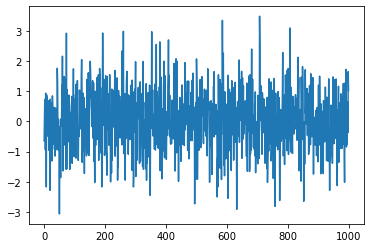
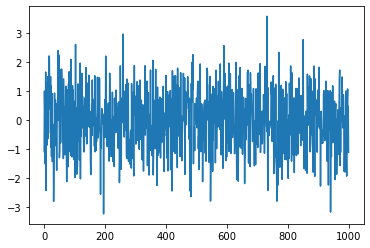
modified stationarity port

diff --git a/_posts/2022-11-10-stationarity.md b/_posts/2022-11-10-stationarity.md
@@ -4,7 +4,7 @@ title: "Stationarity in Python"
 subtitle: "tests and the reason behind"
 author:  Gabriela Filipkowska
 date: 2022-11-10 -0400
-edit: 2022-11-21
+edit: 2022-11-23
 background: '/img/bg-post.jpg'
 ---
 
@@ -20,17 +20,18 @@ when doing some data analysis.
 
 ## Tests for unit root and stationarity in Python
 
-There are a many unit-root and stationarity tests available. However, here, I will focus on the most popular ones, i.e. Augmented Dickey-Fuller ('ADF') 
-and Phillips-Perron ('PP'), and for checking the stationarity, Kwiatkowski-Phillips-Schmidt-Shin ('KPSS'). ADF and PP tests test a null hypothesis that the 
+There are a many unit-root and stationarity tests available. However, here, I will focus on the most popular one unit root test, i.e. Augmented Dickey-Fuller ('ADF'). 
+However, you may wish to also try Phillips-Perron ('PP'), and for checking the stationarity, Kwiatkowski-Phillips-Schmidt-Shin ('KPSS'). ADF and PP tests test a null hypothesis that the 
 process contains the unit root against the alternative that the process in weakly stationary. Whereas the KPSS test tests the null hypothesis of the process being 
-weakly stationary against the alternative that the process contains a unit root.
+weakly stationary against the alternative that the process contains a unit root. 
 
-To begin with, lets create time series:
+To begin with, let us create a time series:
 
 ```python
 > import numpy as np
 > import matplotlib.pyplot as plt
 
+> np.random.seed(seed=123)
 > mean, standard_dev = 0, 1
 > errors = np.random.normal(mean, standard_dev, 1000)
 > y_1 = []
@@ -44,25 +45,6 @@ To begin with, lets create time series:
     
 
 To test this series we run the following code:
-
-```python
-> from arch.unitroot import PhillipsPerron
-> print(PhillipsPerron(y_1, trend='c'))
-```
-
-         Phillips-Perron Test (Z-tau)    
-    =====================================
-    Test Statistic                -31.959
-    P-value                         0.000
-    Lags                               22
-    -------------------------------------
-    
-    Trend: Constant
-    Critical Values: -3.44 (1%), -2.86 (5%), -2.57 (10%)
-    Null Hypothesis: The process contains a unit root.
-    Alternative Hypothesis: The process is weakly stationary.
-    
-
 
 ```python
 > from arch.unitroot import ADF
@@ -82,27 +64,7 @@ To test this series we run the following code:
     Alternative Hypothesis: The process is weakly stationary.
     
 
-
-```python
-> from arch.unitroot import KPSS
-> print(KPSS(y_1, trend='c'))
-```
-
-        KPSS Stationarity Test Results   
-    =====================================
-    Test Statistic                  0.157
-    P-value                         0.369
-    Lags                                2
-    -------------------------------------
-    
-    Trend: Constant
-    Critical Values: 0.74 (1%), 0.46 (5%), 0.35 (10%)
-    Null Hypothesis: The process is weakly stationary.
-    Alternative Hypothesis: The process contains a unit root.
-    
-
-For the PP and ADF tests, we were able to reject the null hypothesis, whereas for the KPSS we were not able to do this. 
-However, since they have somewhat opposite hull hypotheses, all three results point on the corresponding series being stationary.
+Since the p-value is very small, there is enough statistical evidence to reject the null hypothesis that the process contains a unit root. Therefore, the results point on the corresponding series being weakly stationary.
 
 For trending series:
 
@@ -122,24 +84,9 @@ For trending series:
 
 
 ```python
-> print(PhillipsPerron(y_2, trend='c'))
-> print("")
 > print(ADF(y_2, method = 'bic', trend='c'))
-> print("")
-> print(KPSS(y_2, trend='c'))
 ```
 
-         Phillips-Perron Test (Z-tau)    
-    =====================================
-    Test Statistic                 -8.205
-    P-value                         0.000
-    Lags                               22
-    -------------------------------------
-    
-    Trend: Constant
-    Critical Values: -3.44 (1%), -2.86 (5%), -2.57 (10%)
-    Null Hypothesis: The process contains a unit root.
-    Alternative Hypothesis: The process is weakly stationary.
     
        Augmented Dickey-Fuller Results   
     =====================================
@@ -153,16 +100,26 @@ For trending series:
     Null Hypothesis: The process contains a unit root.
     Alternative Hypothesis: The process is weakly stationary.
     
-        KPSS Stationarity Test Results   
+    
+Here, since tending series were not taken into consideration, the test failed to reject the null hypothesis. This result indicates that the series may be non-stationary. This makes sense, 
+since only a constant component was allowed for, and these series cointains a linear trend, and so the mean is not time invariant. Let us fix this by including a constant and linear time trend.
+
+```python
+> print(ADF(y_2, method = 'bic', trend='ct'))
+```
+
+       Augmented Dickey-Fuller Results   
     =====================================
-    Test Statistic                  5.072
+    Test Statistic                -30.829
     P-value                         0.000
-    Lags                               19
+    Lags                                0
     -------------------------------------
     
-    Trend: Constant
-    Critical Values: 0.74 (1%), 0.46 (5%), 0.35 (10%)
-    Null Hypothesis: The process is weakly stationary.
-    Alternative Hypothesis: The process contains a unit root.
-    
-Here, since we did not allow for tending series, two of the test results illustrate that the series may be non-stationary.
+    Trend: Constant and Linear Time Trend
+    Critical Values: -3.97 (1%), -3.41 (5%), -3.13 (10%)
+    Null Hypothesis: The process contains a unit root.
+    Alternative Hypothesis: The process is weakly stationary.
+
+
+
+After taking away this linear trend the null hypothesis can indeed be rejected.

diff --git a/_drafts/2022-11-10-stationarity.md b/_drafts/2022-11-10-stationarity.md
@@ -1,0 +1,168 @@
+---
+layout: post
+title: "Stationarity in Python"
+subtitle: "tests and the reason behind"
+author:  Gabriela Filipkowska
+date: 2022-11-10 -0400
+edit: 2022-11-21
+background: '/img/bg-post.jpg'
+---
+
+## Background
+
+Before we jump into looking if our time series are stationary or not. Firstly, we need to understand what it means and why it is important.
+
+What does stationary time series mean? It simply means that its joint probability distribution is time-invariant.
+In a regression model, the ordinary least squares (OLS) estimators are not consistent for non-stationary series and the standard statistical 
+tests are not valid. Meanwhile, many of statistical tests assume that the data is stationary. Therefore, making it very important to consider 
+when doing some data analysis.
+
+
+## Tests for unit root and stationarity in Python
+
+There are a many unit-root and stationarity tests available. However, here, I will focus on the most popular ones, i.e. Augmented Dickey-Fuller ('ADF') 
+and Phillips-Perron ('PP'), and for checking the stationarity, Kwiatkowski-Phillips-Schmidt-Shin ('KPSS'). ADF and PP tests test a null hypothesis that the 
+process contains the unit root against the alternative that the process in weakly stationary. Whereas the KPSS test tests the null hypothesis of the process being 
+weakly stationary against the alternative that the process contains a unit root.
+
+To begin with, lets create time series:
+
+```python
+> import numpy as np
+> import matplotlib.pyplot as plt
+
+> mean, standard_dev = 0, 1
+> errors = np.random.normal(mean, standard_dev, 1000)
+> y_1 = []
+> for i in range(0,1000):
+>     y_1.append(errors[i])  
+> plt.plot(y_1)
+```
+
+    
+![png](/img/posts/stationarity/constant.png)
+    
+
+To test this series we run the following code:
+
+```python
+> from arch.unitroot import PhillipsPerron
+> print(PhillipsPerron(y_1, trend='c'))
+```
+
+         Phillips-Perron Test (Z-tau)    
+    =====================================
+    Test Statistic                -31.959
+    P-value                         0.000
+    Lags                               22
+    -------------------------------------
+    
+    Trend: Constant
+    Critical Values: -3.44 (1%), -2.86 (5%), -2.57 (10%)
+    Null Hypothesis: The process contains a unit root.
+    Alternative Hypothesis: The process is weakly stationary.
+    
+
+
+```python
+> from arch.unitroot import ADF
+> print(ADF(y_1, method = 'bic', trend='c'))
+```
+
+       Augmented Dickey-Fuller Results   
+    =====================================
+    Test Statistic                -31.923
+    P-value                         0.000
+    Lags                                0
+    -------------------------------------
+    
+    Trend: Constant
+    Critical Values: -3.44 (1%), -2.86 (5%), -2.57 (10%)
+    Null Hypothesis: The process contains a unit root.
+    Alternative Hypothesis: The process is weakly stationary.
+    
+
+
+```python
+> from arch.unitroot import KPSS
+> print(KPSS(y_1, trend='c'))
+```
+
+        KPSS Stationarity Test Results   
+    =====================================
+    Test Statistic                  0.157
+    P-value                         0.369
+    Lags                                2
+    -------------------------------------
+    
+    Trend: Constant
+    Critical Values: 0.74 (1%), 0.46 (5%), 0.35 (10%)
+    Null Hypothesis: The process is weakly stationary.
+    Alternative Hypothesis: The process contains a unit root.
+    
+
+For the PP and ADF tests, we were able to reject the null hypothesis, whereas for the KPSS we were not able to do this. 
+However, since they have somewhat opposite hull hypotheses, all three results point on the corresponding series being stationary.
+
+For trending series:
+
+```python
+> x=np.arange(0, 10, 0.01)
+> y_2 = []
+> for i in range(0,1000):
+>    y_2.append(x[i]+errors[i])  
+> plt.plot(y_2)
+```
+
+
+    
+![png](/img/posts/stationarity/trending.png)
+    
+
+
+
+```python
+> print(PhillipsPerron(y_2, trend='c'))
+> print("")
+> print(ADF(y_2, method = 'bic', trend='c'))
+> print("")
+> print(KPSS(y_2, trend='c'))
+```
+
+         Phillips-Perron Test (Z-tau)    
+    =====================================
+    Test Statistic                 -8.205
+    P-value                         0.000
+    Lags                               22
+    -------------------------------------
+    
+    Trend: Constant
+    Critical Values: -3.44 (1%), -2.86 (5%), -2.57 (10%)
+    Null Hypothesis: The process contains a unit root.
+    Alternative Hypothesis: The process is weakly stationary.
+    
+       Augmented Dickey-Fuller Results   
+    =====================================
+    Test Statistic                 -0.746
+    P-value                         0.834
+    Lags                               11
+    -------------------------------------
+    
+    Trend: Constant
+    Critical Values: -3.44 (1%), -2.86 (5%), -2.57 (10%)
+    Null Hypothesis: The process contains a unit root.
+    Alternative Hypothesis: The process is weakly stationary.
+    
+        KPSS Stationarity Test Results   
+    =====================================
+    Test Statistic                  5.072
+    P-value                         0.000
+    Lags                               19
+    -------------------------------------
+    
+    Trend: Constant
+    Critical Values: 0.74 (1%), 0.46 (5%), 0.35 (10%)
+    Null Hypothesis: The process is weakly stationary.
+    Alternative Hypothesis: The process contains a unit root.
+    
+Here, since we did not allow for tending series, two of the test results illustrate that the series may be non-stationary.
